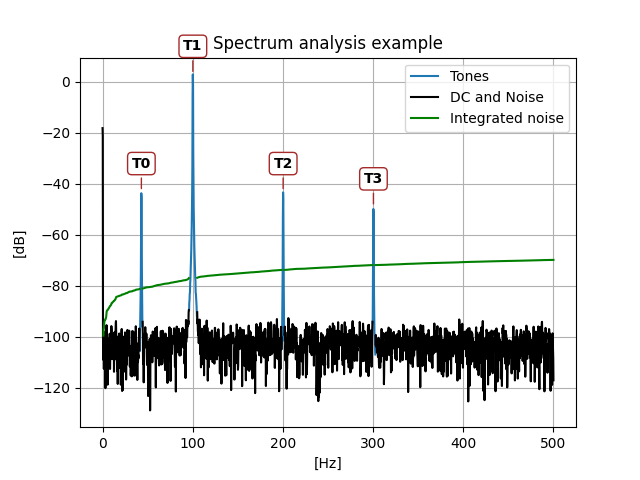
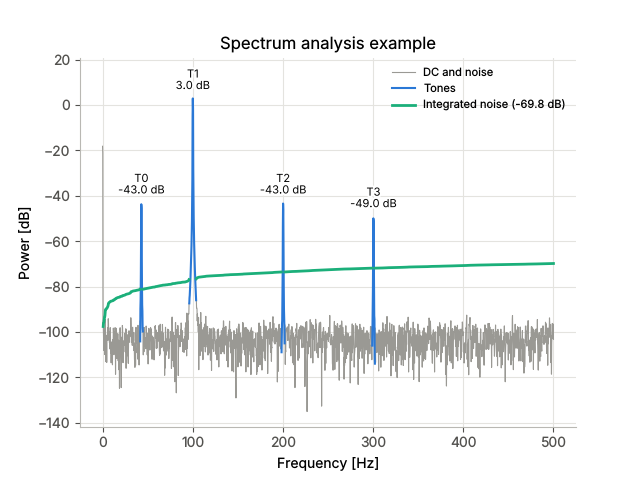
Finish the plot restyle: label placement, CLI, tests and docs
- Stagger peak labels that would overlap (three levels, from the axes'
  x scale at plot time), e.g. harmonics on the CLI's log frequency axis.
- Show the integrated-noise values in the legend ("Integrated noise
  (-84.7 dB)") instead of labels at the curve ends, which collided with
  each other and with harmonic labels near fs/2. With bw, the value is
  read at bw (= noise_db) and the point is marked on the curve.
- CLI: set the log frequency axis before plotting and stop overriding the
  grid, so the spectrum keeps the new styling.
- New tests/test_plotting.py: H2/H3 numbering, peak labels show the
  reported levels, noise value in the legend with and without bw, the
  noise + harmonics curve only with harmonics, axes styling, and a dark
  matplotlib style.
- Regenerate the documented example plots and outputs; changelog entry.

Claude-Session: https://claude.ai/code/session_01TF8dALp1KyQV4288DM1FF8

diff --git a/src/harm_analysis/_plotting.py b/src/harm_analysis/_plotting.py
@@ -43,14 +43,43 @@ def _halo(ax):
     return [patheffects.withStroke(linewidth=3, foreground=ax.get_facecolor())]
 
 
-def _label_peak(ax, x, y, name):
+# Labels closer than this fraction of the axes width are staggered vertically
+_MIN_LABEL_SPACING = 0.07
+_STAGGER_POINTS = 22
+
+
+def _axes_fraction(ax, x):
+    """Horizontal position of x as a fraction of the axes width, for the current x scale."""
+    ax.autoscale_view()
+    lo, hi = ax.get_xlim()
+    if ax.get_xscale() == "log":
+        x, lo, hi = (np.log10(max(v, 1e-300)) for v in (x, lo, hi))
+    return (x - lo) / (hi - lo) if hi != lo else 0.0
+
+
+def _label_peaks(ax, peaks):
+    """Label peaks given as (x, y, name), staggering labels that would overlap.
+
+    A label closer than ``_MIN_LABEL_SPACING`` (of the axes width) to the previous one goes
+    one level higher, cycling through three levels; a label with room goes back to level 0.
+    """
+    peaks = sorted((p for p in peaks if np.isfinite(p[1])), key=lambda p: p[0])
+    previous = None
+    level = 0
+    for x, y, name in peaks:
+        position = _axes_fraction(ax, x)
+        close = previous is not None and position - previous < _MIN_LABEL_SPACING
+        level = (level + 1) % 3 if close else 0
+        _label_peak(ax, x, y, name, offset=5 + level * _STAGGER_POINTS)
+        previous = position
+
+
+def _label_peak(ax, x, y, name, offset=5):
     """Write the name and level of a peak just above it (direct label, no box)."""
-    if not np.isfinite(y):
-        return
     ax.annotate(
         f"{name}\n{y:.1f} dB",
         xy=(x, y),
-        xytext=(0, 5),
+        xytext=(0, offset),
         textcoords="offset points",
         ha="center",
         va="bottom",
@@ -61,33 +90,25 @@ def _label_peak(ax, x, y, name):
     )
 
 
-def _label_curve_end(ax, freq_array, curve, text, end_bin):
-    """Write the value of an integrated curve at the end of the analysis band (`end_bin`).
+def _band_value(ax, freq_array, curve, end_bin):
+    """Value of an integrated curve at the end of the analysis band (`end_bin`), or None.
 
     That is the value the analysis reports (e.g. ``noise_db`` with a `bw`), not the end of
-    the curve, which keeps integrating up to fs/2.
+    the curve, which keeps integrating up to fs/2. When the band ends before fs/2, the point
+    is marked on the curve.
     """
     curve = np.ma.masked_invalid(np.ma.asarray(curve)[: end_bin + 1])
-    last = np.flatnonzero(~np.ma.getmaskarray(curve))
-    if last.size == 0:
-        return
-    k = int(last[-1])
-    in_band_only = end_bin < len(freq_array) - 1
-    if in_band_only:
-        # The curve continues past bw: mark the reported value and label it on the right
+    valid = np.flatnonzero(~np.ma.getmaskarray(curve))
+    if valid.size == 0:
+        return None
+    k = int(valid[-1])
+    if end_bin < len(freq_array) - 1:
         ax.plot(freq_array[k], curve[k], "o", ms=5, color=_INT_NOISE, mec=ax.get_facecolor(), mew=1.5, zorder=6)
-    ax.annotate(
-        f"{text} {curve[k]:.1f} dB",
-        xy=(freq_array[k], curve[k]),
-        xytext=(6, -3) if in_band_only else (-2, 4),
-        textcoords="offset points",
-        ha="left" if in_band_only else "right",
-        va="top" if in_band_only else "bottom",
-        fontsize=8,
-        color=_INT_NOISE,
-        path_effects=_halo(ax),
-        zorder=6,
-    )
+    return float(curve[k])
+
+
+def _with_value(label, value):
+    return label if value is None else f"{label} ({value:.1f} dB)"
 
 
 def _style_axes(ax, x_db, freq_array, bw_bins):
@@ -133,11 +154,10 @@ def _plot_spec(  # noqa: PLR0913
         tones_array = _mask_array(x_db, tones_bins)
         ax.plot(freq_array, tones_array, label="Tones", color=_TONE, lw=1.5, zorder=3)
 
-        for i in range(tones_db.size):
-            _label_peak(ax, tones_freq[i], tones_db[i], f"T{i}")
+        _label_peaks(ax, [(tones_freq[i], tones_db[i], f"T{i}") for i in range(tones_db.size)])
 
-    ax.plot(freq_array, int_noise, label="Integrated noise", color=_INT_NOISE, lw=2, zorder=4)
-    _label_curve_end(ax, freq_array, int_noise, "Noise", bw_bins)
+    noise = _band_value(ax, freq_array, int_noise, bw_bins)
+    ax.plot(freq_array, int_noise, label=_with_value("Integrated noise", noise), color=_INT_NOISE, lw=2, zorder=4)
 
     _style_axes(ax, x_db, freq_array, bw_bins)
 
@@ -168,29 +188,30 @@ def _plot_harm(  # noqa: PLR0913
     if fund_bins.size > 0:
         fund_array = _mask_array(x_db, fund_bins)
         ax.plot(freq_array, fund_array, label="Fundamental", color=_TONE, lw=1.5, zorder=3)
-        _label_peak(ax, fund_freq, fund_pow_db, "F")
 
     if harm_bins.size > 0:
         harm_array = _mask_array(x_db, harm_bins)
         ax.plot(freq_array, harm_array, label="Harmonics", color=_HARM, lw=1.5, zorder=3)
 
-        # H2 is the 2nd harmonic (twice the fundamental frequency), H3 the 3rd, ...
-        for i in range(harm_pow_db.size):
-            _label_peak(ax, harm_freq[i], harm_pow_db[i], f"H{i + 2}")
-
+        noise_harm = _band_value(ax, freq_array, int_noise_p_harm, bw_bins)
         ax.plot(
             freq_array,
             int_noise_p_harm,
-            label="Integrated noise + harmonics",
+            label=_with_value("Integrated noise + harmonics", noise_harm),
             color=_INT_NOISE,
             lw=2,
             ls=(0, (5, 2)),
             zorder=4,
         )
-        _label_curve_end(ax, freq_array, int_noise_p_harm, "Noise + harmonics", bw_bins)
 
-    ax.plot(freq_array, int_noise, label="Integrated noise", color=_INT_NOISE, lw=2, zorder=4)
-    _label_curve_end(ax, freq_array, int_noise, "Noise", bw_bins)
+    noise = _band_value(ax, freq_array, int_noise, bw_bins)
+    ax.plot(freq_array, int_noise, label=_with_value("Integrated noise", noise), color=_INT_NOISE, lw=2, zorder=4)
+
+    peaks = [(fund_freq, fund_pow_db, "F")] if fund_bins.size > 0 else []
+    if harm_bins.size > 0:
+        # H2 is the 2nd harmonic (twice the fundamental frequency), H3 the 3rd, ...
+        peaks += [(harm_freq[i], harm_pow_db[i], f"H{i + 2}") for i in range(harm_pow_db.size)]
+    _label_peaks(ax, peaks)
 
     _style_axes(ax, x_db, freq_array, bw_bins)
 

diff --git a/tests/test_plotting.py b/tests/test_plotting.py
@@ -1,0 +1,133 @@
+# MIT License
+#
+# Copyright (c) 2026 ericsmacedo
+#
+# Permission is hereby granted, free of charge, to any person obtaining a copy
+# of this software and associated documentation files (the "Software"), to deal
+# in the Software without restriction, including without limitation the rights
+# to use, copy, modify, merge, publish, distribute, sublicense, and/or sell
+# copies of the Software, and to permit persons to whom the Software is
+# furnished to do so, subject to the following conditions:
+#
+# The above copyright notice and this permission notice shall be included in all
+# copies or substantial portions of the Software.
+#
+# THE SOFTWARE IS PROVIDED "AS IS", WITHOUT WARRANTY OF ANY KIND, EXPRESS OR
+# IMPLIED, INCLUDING BUT NOT LIMITED TO THE WARRANTIES OF MERCHANTABILITY,
+# FITNESS FOR A PARTICULAR PURPOSE AND NONINFRINGEMENT. IN NO EVENT SHALL THE
+# AUTHORS OR COPYRIGHT HOLDERS BE LIABLE FOR ANY CLAIM, DAMAGES OR OTHER
+# LIABILITY, WHETHER IN AN ACTION OF CONTRACT, TORT OR OTHERWISE, ARISING FROM,
+# OUT OF OR IN CONNECTION WITH THE SOFTWARE OR THE USE OR OTHER DEALINGS IN THE
+# SOFTWARE.
+
+"""Tests for the spectrum plots drawn by harm_analysis and spec_analysis."""
+
+import matplotlib.pyplot as plt
+import numpy as np
+import pytest
+
+from harm_analysis import harm_analysis, spec_analysis
+
+N = 4096
+T = np.arange(N)
+
+
+def _texts(ax):
+    return [text.get_text() for text in ax.texts]
+
+
+def _legend_labels(ax):
+    return [text.get_text() for text in ax.get_legend().get_texts()]
+
+
+@pytest.fixture
+def ax():
+    """A fresh matplotlib axes, closed after the test."""
+    fig, ax = plt.subplots()
+    yield ax
+    plt.close(fig)
+
+
+def _signal(noise_std=1e-4):
+    x = np.cos(2 * np.pi * 0.1003 * T) + 0.01 * np.cos(2 * np.pi * 0.2006 * T) + 0.005 * np.cos(2 * np.pi * 0.3009 * T)
+    return x + np.random.default_rng(0).normal(0, noise_std, N)
+
+
+def test_harmonics_are_numbered_by_order(ax):
+    """The 2nd harmonic is labeled H2, the 3rd H3 (as in MATLAB's thd)."""
+    results = harm_analysis(_signal(), n_harm=2, plot=True, ax=ax)
+
+    texts = _texts(ax)
+    assert any(t.startswith("F\n") for t in texts)
+    assert f"H2\n{results.harm_db[0]:.1f} dB" in texts
+    assert f"H3\n{results.harm_db[1]:.1f} dB" in texts
+    assert not any(t.startswith("H1\n") for t in texts)
+
+
+def test_peak_labels_show_the_reported_levels(ax):
+    """The fundamental label shows fund_db."""
+    results = harm_analysis(_signal(), plot=True, ax=ax)
+
+    assert f"F\n{results.fund_db:.1f} dB" in _texts(ax)
+
+
+def test_noise_label_is_the_reported_noise_with_bw(ax):
+    """With bw, the integrated-noise label shows the in-band noise_db, not the end of the curve."""
+    results = harm_analysis(_signal(noise_std=1e-2), n_harm=0, bw=0.2, plot=True, ax=ax)
+
+    assert f"Integrated noise ({results.noise_db:.1f} dB)" in _legend_labels(ax)
+    assert "bw" in _legend_labels(ax)
+
+
+def test_noise_label_without_bw(ax):
+    """Without bw, the integrated-noise label is the total noise."""
+    results = harm_analysis(_signal(), plot=True, ax=ax)
+
+    assert f"Integrated noise ({results.noise_db:.1f} dB)" in _legend_labels(ax)
+    assert "bw" not in _legend_labels(ax)
+
+
+def test_noise_plus_harmonics_curve_only_with_harmonics(ax):
+    """The 'noise + harmonics' curve is drawn only when there are harmonics."""
+    harm_analysis(_signal(), n_harm=0, plot=True, ax=ax)
+
+    assert not any(label.startswith("Integrated noise + harmonics") for label in _legend_labels(ax))
+
+
+def test_spec_plot_labels_tones(ax):
+    """Each detected tone is labeled with its index and level."""
+    results = spec_analysis(_signal(), plot=True, ax=ax)
+
+    texts = _texts(ax)
+    for i, level in enumerate(results.tones_db):
+        assert f"T{i}\n{level:.1f} dB" in texts
+    assert f"Integrated noise ({results.noise_db:.1f} dB)" in _legend_labels(ax)
+
+
+@pytest.mark.parametrize("func", [harm_analysis, spec_analysis])
+def test_axes_styling(ax, func):
+    """Axis labels, headroom above the highest peak, and only the given axes are styled."""
+    fig = ax.figure
+    facecolor = fig.get_facecolor()
+
+    func(_signal(), plot=True, ax=ax)
+
+    assert ax.get_xlabel() == "Frequency [Hz]"
+    assert ax.get_ylabel() == "Power [dB]"
+    assert not ax.spines["top"].get_visible()
+    assert ax.get_ylim()[1] >= 10 * np.log10(0.5) + 15  # headroom for the peak label
+    assert fig.get_facecolor() == facecolor
+
+
+def test_plot_on_a_dark_axes_background():
+    """Plotting works on a dark style; labels get a halo in the axes background color."""
+    with plt.style.context("dark_background"):
+        fig, ax = plt.subplots()
+        harm_analysis(_signal(), plot=True, ax=ax)
+        fig.canvas.draw()  # renders the labels and their halos
+        background = ax.get_facecolor()
+        labels = [text for text in ax.texts if text.get_path_effects()]
+        plt.close(fig)
+
+    assert background[:3] == (0.0, 0.0, 0.0)
+    assert labels  # every label has a halo

diff --git a/src/harm_analysis/cli.py b/src/harm_analysis/cli.py
@@ -127,14 +127,15 @@ def _load_data(filename, sep, sfactor):
 def _plot_axes():
     """Create the figure: time-domain data on the left, power spectrum on the right."""
     _, (data_ax, spec_ax) = plt.subplots(1, 2, figsize=(15, 5))
+    # Log frequency axis before plotting, so the peak labels are placed for it
+    spec_ax.set_xscale("log")
     return data_ax, spec_ax
 
 
 def _show_plot(data_ax, spec_ax, data):
     """Plot the time-domain data, format the spectrum axes and show the figure."""
-    spec_ax.grid(True, which="both")
+    # The analysis functions style the spectrum axes (grid, labels, legend)
     spec_ax.set_title("Power spectrum")
-    spec_ax.set_xscale("log")
     spec_ax.xaxis.set_major_formatter(EngFormatter(unit="Hz"))
 
     data_ax.set_title("Data")

diff --git a/CHANGELOG.md b/CHANGELOG.md
@@ -27,6 +27,16 @@ This release contains breaking changes and will be released as 2.0.0.
   ([#30](https://github.com/ericsmacedo/harm-analysis/pull/30))
 - `plot=True` without an `ax` raises a `ValueError`. ([#27](https://github.com/ericsmacedo/harm-analysis/pull/27))
 
+### Changed
+
+- Restyled the spectrum plots (`plot=True` and the CLI's `--plot`): the noise is a thin
+  gray background trace, the fundamental/tones and harmonics stand out in colors that
+  are distinguishable with color-vision deficiencies, peaks are labeled with their level
+  (e.g. "H2 -43.0 dB"), and the legend shows the integrated noise values (at `bw` when it
+  is given, matching `noise_db`). Only the given `ax` is styled.
+- Harmonics in the plots are numbered by their order, as in MATLAB: the 2nd harmonic is
+  "H2" (it was labeled "H1").
+
 ### Added
 
 - `fund_freq` parameter of `harm_analysis` (and `--fund-freq` for the `harm-analysis`

diff --git a/examples/example_usage.md b/examples/example_usage.md
@@ -1,12 +1,12 @@
 Parameters:
-fund_db: 3.0102128636445458
-fund_freq: 100.1299992042317
-harm_freq: [200.25983383 300.39013596 399.97675788]
-harm_db: [-43.01177786 -49.05731397 -94.97825112]
-dc_db: -18.173698792488953
-noise_db: -69.82588328864927
-thd_db: -45.057844273189865
-snr_db: 72.8360961522938
-sinad_db: 45.050606629632824
-thdn_db: -45.050606629632824
-total_noise_and_dist_db: -69.82588328864925
+fund_db: 3.0102581512076476
+fund_freq: 100.13000099796048
+harm_freq: [200.25992094 300.38966102 399.69191637]
+harm_db: [-43.02319863 -49.03958346 -96.91632087]
+dc_db: -18.173402262439694
+noise_db: -70.06725978382238
+thd_db: -45.0634991329662
+snr_db: 73.07751793503003
+sinad_db: 45.05664362546099
+thdn_db: -45.05664362546099
+total_noise_and_dist_db: -70.06725978382238

diff --git a/examples/example_spec_analysis.md b/examples/example_spec_analysis.md
@@ -1,6 +1,6 @@
 Function results:
-dc: 0.12340892002472457
-dc_db: -18.173068965292313
-noise_db: -69.88881400352892
-tones_db: [-43.00264669   3.01033846 -43.00849511 -49.01269433]
-tones_freq: [ 43.0553679  100.13000021 200.25987669 300.39077327]
+dc: 0.12339484186693771
+dc_db: -18.17405988475026
+noise_db: -69.83418824960202
+tones_db: [-42.99790788   3.01017539 -43.01559798 -49.04951617]
+tones_freq: [ 43.05579084 100.12999825 200.25985241 300.38969635]
